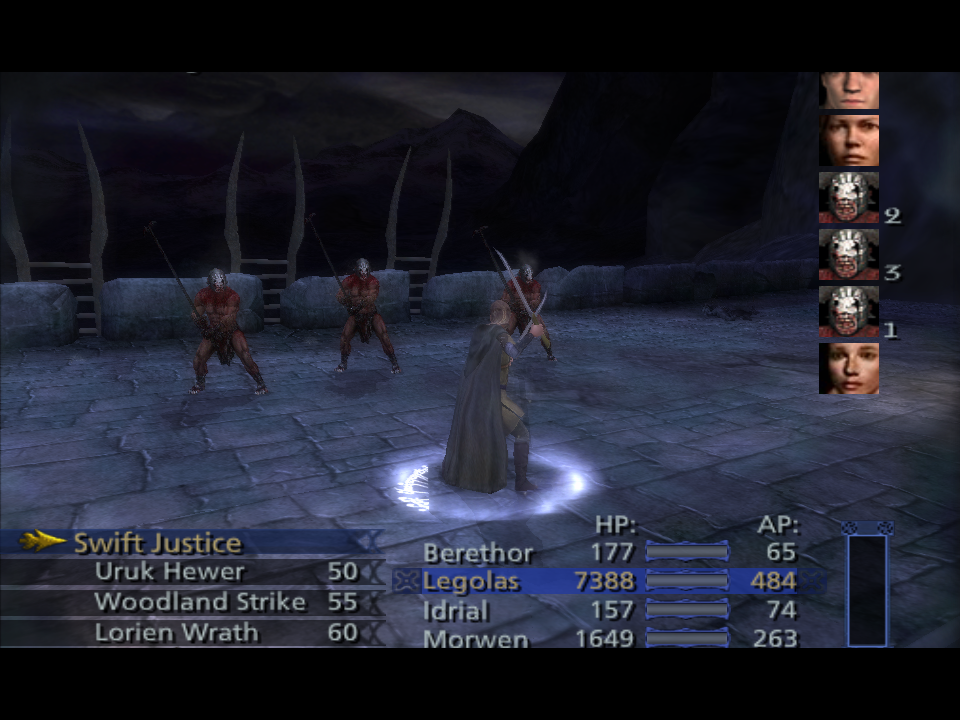
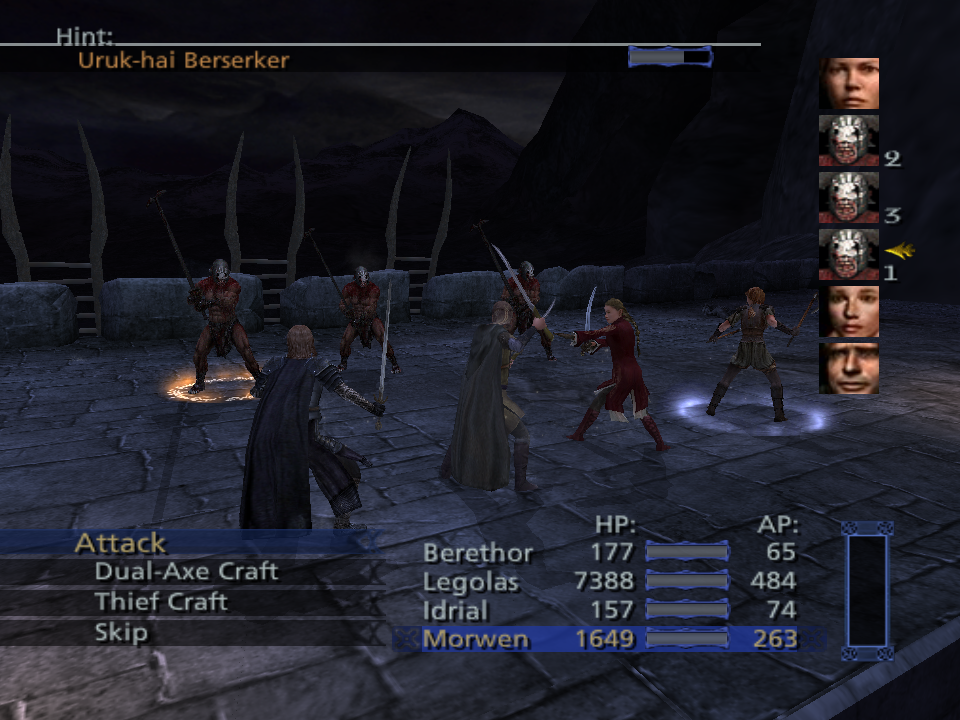
Debug battles wait for the game's films: Helm's Deep's battles on foot, with their ground
The mounted party and missing ground were the map's opening films: a battle asked for during them started inside,
keeping the film's riders and camera (half the shots at the valley) and its zones. The debug tool now holds a battle
while the game state 0x3a5294 is 5 (a film or prompt), for two minutes at most. The party move of a27132a was a
misdiagnosis and is removed. TTA_3D_DUMP_FRAME also prints the camera's place and takes %N.

diff --git a/runtime/tta_debug.cpp b/runtime/tta_debug.cpp
@@ -7,8 +7,8 @@
 // is the map's record table ("manC", count at +0xc, records of 0x20 bytes from +0x10: the id, then the name). Its
 // encounters are the records named Enc<n>[a-z]_<Name> (Enc01_Nazgul = 2109, Enc11_WargCamp01 = 2118 in Eregion);
 // the random battles' _EP (placements) and _ET (enemy groups) records alone start an empty battle (not listed).
-// A battle whose place is far from the party (Helm's Deep's, fought near x 2700) is preceded by a move of the party
-// there, so the map streams in its ground first (moveToBattle).
+// A battle asked for while the game plays one of its in-engine films (game state 0x3a5294 == 5) waits for the film to
+// end (two minutes at most): started inside Helm's Deep's opening films it kept the film's riders, cameras and zones.
 //
 // Maps. The map index (0x35bd0c, 0..13) chooses among the paths at 0x35bc88 (e98c/e98c03 ... e03c/e03c04); 0x190130(i)
 // sets it, and the chapter message 0 (category 0x7d0, handler 0x18f420: {0x7d0, 0, number, arguments}) loads the map
@@ -32,7 +32,6 @@
 #include <algorithm>
 #include <atomic>
 #include <cctype>
-#include <cmath>
 #include <cstdio>
 #include <cstdlib>
 #include <cstring>
@@ -61,7 +60,6 @@ namespace tta
         }
         void write32(uint8_t *rdram, uint32_t address, uint32_t v) { std::memcpy(rdram + (address & 0x1ffffffu), &v, 4); }
         uint32_t gameFrame(const uint8_t *rdram) { return read32(rdram, 0x3b5720); }
-
         // ---- The maps ----
 
         struct MapInfo
@@ -123,6 +121,7 @@ namespace tta
             int32_t link;     // an encounter's group, a group's placement
         };
         constexpr uint32_t kRecordTable = 0x3dff84u, kEncounterType = 0x1775u, kGroupType = 0x1770u;
+        constexpr uint32_t kGameState = 0x3a5294u, kStateFilm = 5u; // the game's state: 5 a film, 6 exploring, 3 a battle
 
         // The current map's records by id (*(0x3dff84): "manC", count at +0xc, {id, name[28]} from +0x10).
         std::vector<std::pair<int32_t, std::string>> readRecords(const uint8_t *rdram)
@@ -210,7 +209,6 @@ namespace tta
             } kind;
             int32_t value;
             uint32_t atFrame;
-            bool moved = false; // an encounter whose party was already taken to the battle's place
         };
         std::mutex g_mutex;
         std::deque<Request> g_requests;
@@ -316,9 +314,7 @@ namespace tta
             std::fflush(stdout);
         }
 
-        bool moveToBattle(uint8_t *rdram, R5900Context *ctx, Runtime *rt, int32_t id);
-
-        void startEncounter(uint8_t *rdram, R5900Context *ctx, Runtime *rt, int32_t id, bool moved = false)
+        void startEncounter(uint8_t *rdram, R5900Context *ctx, Runtime *rt, int32_t id)
         {
             // Only one of the current map's encounters: StartEncounter with an id the map does not have never comes back
             // (the game's frame stops; seen with an Eregion id right after a warp to Rohan, its list still empty).
@@ -335,98 +331,35 @@ namespace tta
                 note("no encounter " + std::to_string(id) + " on this map (" + std::to_string(count) + " listed): not started");
                 return;
             }
-            if (!moved && moveToBattle(rdram, ctx, rt, id))
-                return;
-            if (moved)
+            // Not inside one of the game's in-engine films (0x3a5294: 5 in a film, 6 exploring, 3 in battle): Helm's
+            // Deep's opening films (the ride to the gate, Theoden) run until about frame 19500 after the warp, and a
+            // battle started in them was fought with the film still in place: its five riders on their horses, its
+            // camera for half the shots, and only the zones round the film's valley, so the battle (near x 2700) had
+            // no ground. The request waits a second and asks again, for two minutes at most: state 5 is also the
+            // game's own prompts and movies (the Gullies' "Epic Scene, view it now?" and the scene it plays), where a
+            // battle starts well, and a scripted run must not wait for ever.
+            static int32_t waitingFor = 0;
+            static uint32_t waitingSince = 0;
+            const uint32_t now = gameFrame(rdram);
+            if (read32(rdram, kGameState) == kStateFilm && !(waitingFor == id && now - waitingSince >= 7200u))
             {
-                uint32_t actor = 0;
-                if (callGame(rdram, ctx, rt, func_0x15c030, {}, 0, &actor) && actor && actor < 0x2000000u)
+                if (waitingFor != id)
                 {
-                    float now[3];
-                    std::memcpy(now, rdram + actor + 0x40u, 12);
-                    char text[160];
-                    std::snprintf(text, sizeof text, "party at (%.1f, %.1f, %.1f)", now[0], now[1], now[2]);
-                    note(text);
+                    note("encounter " + std::to_string(id) + " waits for the film to end");
+                    waitingFor = id;
+                    waitingSince = now;
                 }
+                std::lock_guard lock(g_mutex);
+                g_requests.push_back({Request::kEncounter, id, now + 60u});
+                return;
             }
+            if (waitingFor == id && read32(rdram, kGameState) == kStateFilm)
+                note("encounter " + std::to_string(id) + ": still in a film or prompt after two minutes, started anyway");
+            waitingFor = 0;
             note("StartEncounter(" + std::to_string(id) + ") at game frame " + std::to_string(gameFrame(rdram)));
             if (std::getenv("TTA_DEBUG_OBJDUMP"))
                 dumpEncounterObjects(rdram, id);
             callStartEncounter(ctx, id);
-        }
-
-        // Where a battle is fought: its placement object's place (type 0x1773, the group's +0x24, where the enemies stand:
-        // Helm's Deep's Deeping Wall at (2689, 10.5, 37), the breach at (2706, 3.9, 60)), else the encounter's own
-        // (+8..+0x10; a random encounter's placement has none: the court's 1133 at (2699, 10.5, 122)). The map streams
-        // its zones in around the party (Helm's Deep has 40, zone_e02c05_zone1..40 in its .scp), so a battle started from
-        // the valley's start, 2500 units away, was fought with no ground: riders over black. When the battle's place is
-        // more than 1000 units away (the scripted battles' arena near x 2700, Helm's Deep's and Osgiliath's), the party is first taken there with the game's own teleport (0x11a880(actor, position,
-        // 1), as Lua's TeleportToPos; the party's actor from 0x15c030), and the battle started 3 seconds later, once the
-        // zones are in. The party comes as it was (mounted, from Helm's Deep's valley). Nearer battles start where the
-        // party is: Minas Tirith's court (1448, 400 units off) broke when moved (the party taken from its tier at y -198 to
-        // the encounter's y 0) and is right in place, as are Eregion's, Rohan's and Western Moria's. TTA_BATTLE_MOVE=off never moves it, =always always does.
-        bool moveToBattle(uint8_t *rdram, R5900Context *ctx, Runtime *rt, int32_t id)
-        {
-            const char *how = std::getenv("TTA_BATTLE_MOVE");
-            const std::string mode = how ? how : "";
-            if (mode == "off")
-                return false;
-            uint32_t encounter = 0;
-            int32_t placementId = 0;
-            {
-                std::lock_guard lock(g_mutex);
-                for (const Encounter &e : g_encounters)
-                    if (e.id == id)
-                    {
-                        encounter = e.address;
-                        for (const Encounter &g : g_groups)
-                            if (g.id == e.link)
-                                placementId = g.link;
-                    }
-            }
-            const auto placeAt = [&](uint32_t object, float *out)
-            {
-                if (!object)
-                    return false;
-                std::memcpy(out, rdram + ((object + 8u) & 0x1ffffffu), 12);
-                for (int k = 0; k < 3; ++k)
-                    if (!(std::fabs(out[k]) < 1e5f))
-                        return false;
-                return std::fabs(out[0]) + std::fabs(out[2]) > 1.0f;
-            };
-            // The map holds more than one object with a placement's id (some with other data).
-            uint32_t placement = 0;
-            float place[3];
-            if (placementId)
-                for (uint32_t a = 0x100000u; a + 0x30u < 0x2000000u && !placement; a += 4u)
-                    if (static_cast<int32_t>(read32(rdram, a)) == placementId && read32(rdram, a + 4u) == 0x1773u &&
-                        placeAt(a, place))
-                        placement = a;
-            if (!placement && !placeAt(encounter, place))
-                return false;
-            uint32_t actor = 0;
-            if (!callGame(rdram, ctx, rt, func_0x15c030, {}, 0, &actor) || !actor || actor >= 0x2000000u)
-                return false;
-            float was[3];
-            std::memcpy(was, rdram + actor + 0x40u, 12);
-            const float dx = place[0] - was[0], dz = place[2] - was[2];
-            if (mode != "always" && dx * dx + dz * dz < 1000.0f * 1000.0f)
-                return false;
-            const uint32_t at = (ctx->r[29].uw[0] - 0x200u) & ~0xfu;
-            std::memcpy(rdram + at, place, 12);
-            const float one = 1.0f;
-            std::memcpy(rdram + at + 12u, &one, 4);
-            if (!callGame(rdram, ctx, rt, func_0x11a880, {actor, at, 1u}, at - 0x100u))
-                return false;
-            char text[200];
-            std::snprintf(text, sizeof text, "party moved from (%.1f, %.1f, %.1f) to battle %d's %s (%.1f, %.1f, %.1f)",
-                          was[0], was[1], was[2], id, placement ? "placement" : "encounter", place[0], place[1], place[2]);
-            note(text);
-            Request r{Request::kEncounter, id, gameFrame(rdram) + 180u};
-            r.moved = true;
-            std::lock_guard lock(g_mutex);
-            g_requests.push_back(r);
-            return true;
         }
 
         void warp(uint8_t *rdram, R5900Context *ctx, Runtime *rt, int32_t index)
@@ -525,7 +458,7 @@ namespace tta
                     continue;
                 }
                 if (r.kind == Request::kEncounter)
-                    startEncounter(rdram, ctx, rt, r.value, r.moved);
+                    startEncounter(rdram, ctx, rt, r.value);
                 else if (r.kind == Request::kGroup)
                     startGroup(rdram, ctx, rt, r.value);
                 else

diff --git a/runtime/tta_3d.cpp b/runtime/tta_3d.cpp
@@ -976,8 +976,12 @@ namespace tta
                     }
                     drawNode(rdram, *m, it->second, screen);
                     count(rdram, g_drawn);
-                    // TTA_3D_DUMP_FRAME=<n>: every node drawn in frame n, with its screen bounds (GS pixels, 2048 centre).
-                    if (const char *d = env("TTA_3D_DUMP_FRAME"); d && frame(rdram) == static_cast<uint32_t>(std::atoi(d)))
+                    // TTA_3D_DUMP_FRAME=<n>: every node drawn in frame n, with its screen bounds (GS pixels, 2048 centre)
+                    // and the camera's place; =%<n> every n-th frame.
+                    const char *d = env("TTA_3D_DUMP_FRAME");
+                    const uint32_t f = frame(rdram);
+                    if (d && (d[0] == '%' ? f % static_cast<uint32_t>(std::max(1, std::atoi(d + 1))) == 0
+                                          : f == static_cast<uint32_t>(std::atoi(d))))
                     {
                         const Node &n = it->second.kind == 1 ? m->byOffset.at(m->offsetByNumber.at(it->second.master)) : it->second;
                         float mat[16];
@@ -1025,6 +1029,29 @@ namespace tta
                         std::printf("[tta:dump]   RC %x object translation %.1f %.1f %.1f, diag %.3f %.3f %.3f; RC+0x2e0 vs "
                                     "viewport x clip x object: %.3g\n",
                                     rc, obj[12], obj[13], obj[14], obj[0], obj[5], obj[10], diff);
+                        // The camera's world place: where the clip matrix's x, y and w rows are all zero.
+                        {
+                            const float *c = clipM;
+                            const double a[3][3] = {{c[0], c[4], c[8]}, {c[1], c[5], c[9]}, {c[3], c[7], c[11]}};
+                            const double b[3] = {-c[12], -c[13], -c[15]};
+                            const auto det3 = [](const double m[3][3])
+                            {
+                                return m[0][0] * (m[1][1] * m[2][2] - m[1][2] * m[2][1]) -
+                                       m[0][1] * (m[1][0] * m[2][2] - m[1][2] * m[2][0]) +
+                                       m[0][2] * (m[1][0] * m[2][1] - m[1][1] * m[2][0]);
+                            };
+                            const double det = det3(a);
+                            double p[3] = {};
+                            for (int k = 0; det != 0.0 && k < 3; ++k)
+                            {
+                                double t[3][3];
+                                for (int r = 0; r < 3; ++r)
+                                    for (int q = 0; q < 3; ++q)
+                                        t[r][q] = q == k ? b[r] : a[r][q];
+                                p[k] = det3(t) / det;
+                            }
+                            std::printf("[tta:dump]   frame %u camera at %.1f %.1f %.1f\n", frame(rdram), p[0], p[1], p[2]);
+                        }
                     }
                 }
             }

diff --git a/docs/RECOMP_NOTES.md b/docs/RECOMP_NOTES.md
@@ -488,20 +488,25 @@ the game's behaviour); its code is in the history before `8ade037`.
   loop asks the hook again when it returns): one battle a tick, the game's own flow. And an id that is not one of the
   current map's encounters is refused instead of started. Checked: Rohan encounter 1172 from forest_14900 (warp at
   15000, --encounter 1172@16200): four orcs, Rage of Saruman, the party's loss, back to the forest.
-- **Helm's Deep's debug battles had no ground** (2026-11-21). The map streams its zones in around the party
-  (Helm's Deep's .scp holds zone_e02c05_zone1 .. zone40; the code is ZoneManager2.c, 0x1d9238 .. 0x1db100, its state at
-  0x3a9c50), and a scripted battle is fought at its own place: the placement object (type 0x1773, the group's +0x24;
-  +8 .. +0x10 the place, +0x1c an angle in degrees) where it has one (Deeping Wall 1126 at (2689, 10.5, 37), the
-  breach 1129 at (2706, 3.9, 60)), else the encounter's own +8 .. +0x10 (the court's random 1133 at (2699, 10.5,
-  122)). The valley's start is at (237, 18.5, 156), 2500 units away, so started from there the battle had none of its
-  zones: riders over black. The debug tool now takes the party there first with the game's own teleport,
-  0x11a880(actor, position, 1) (what Lua's TeleportToPos calls through 0x119888; the actor from 0x15c030, its place
-  at +0x40), and starts the battle 3 seconds later. All three battles then have their ground (the wall, the breach,
-  the court). Only for places more than 1000 units away: Osgiliath's Gothmog (1269, also near x 2700) moves and is
-  right either way, while Minas Tirith's court (1448, 400 units) went black when moved (the party taken from its tier
-  at y -198 to the encounter's y 0) and is right where the party stands, as are Eregion's, Rohan's and Western
-  Moria's. The party comes as it was (mounted from Helm's Deep's valley, where the story has it on foot).
-  TTA_BATTLE_MOVE=off / always; TTA_DEBUG_OBJDUMP=1 prints the encounter's, group's and placement's words.
+- **Helm's Deep's debug battles: no ground, mounted party** (2026-11-21). Not a rendering fault: the battles were
+  started inside the map's opening films. After the warp (forest_14900, warp at 15000, the START / CROSS script of the
+  earlier audit) Helm's Deep plays in-engine films (the ride to the gate, Theoden) until about game frame 19140, and a
+  battle asked for at 16200 began inside them. The battle itself was right (fought at its placement near x 2700:
+  the placement object, type 0x1773, the group's +0x24, +8 .. +0x10 the place, +0x1c an angle; Deeping Wall 1126 at
+  (2689, 10.5, 37), the breach 1129 at (2706, 3.9, 60)), but the film's five riders (Berethor, Idrial, Morwen, Elegost,
+  Hadhod on the map's Horse_SG02_01..05, parked at (230, 18.7, 155)) and its camera stayed: about half the shots
+  (TTA_3D_DUMP_FRAME=%20 now prints the camera's world place, solved from the clip matrix) were taken at (184, 21,
+  134), the valley, where during the battle only four terrain pieces were drawn: mounted riders over black. Only the
+  zones round the film's valley were in, so the battle had no ground either. The game's state word 0x3a5294 is 5 in
+  a film (both films), 6 exploring (the forest, the Hornburg) and 3 in battle; the debug tool now holds a battle
+  while it is 5, asking again every second, for two minutes at most (state 5 is also the game's prompts and the
+  movies they play: the Gullies' "Epic Scene, view it now?", where a battle started well before). Started at 19140,
+  1126, 1129 and 1133 are on foot on the wall, the breach and the court, with every shot at the battle. A first try
+  (moving the party with the game's teleport 0x11a880(actor, position, 1), as Lua's TeleportToPos does through
+  0x119888) brought the ground but not the film's shots, and Helm's Deep's 0x15c030 actor is the film's Berethor,
+  not the explorer; it was taken out. The party list is 0x3a6e50 (0x3a5bd0 + 0x1280, as GetPartyMemberByName's
+  0x1941f8): count at +8, member k's actor at +0xba4 + k * 0x20 (gonj, fewj, rofk, duwj, mdwj, eadj).
+  TTA_DEBUG_OBJDUMP=1 prints the encounter's, group's and placement's words.
 - **Scene drawing overhead** (2026-11-20). TTA_HOST_PROFILE on the first battle (battle1_5800 to 7500, the window
   build on the game's clock): the main thread spent ~20% in drawFor / drawNode (a copy of every batch's vertices into a
   new vector each frame, a texture lookup by id then by file name through two string maps per batch, the mesh lookup by
@@ -634,7 +639,8 @@ the game's behaviour); its code is in the history before `8ade037`.
   debug start: the game itself draws only four type-0 nodes there (ter 104 pieces, its chain shows no terrain render),
   placed by RC+0x2e0 = viewport x RC+0x260 x the identity object matrix (TTA_3D_DUMP_FRAME now prints that check),
   mostly off-screen: the battle's ground is not among the nodes the game renders, as if the area the encounter places
-  the battle in were not streamed in. It was not (below, "Helm's Deep's debug battles had no ground").
+  the battle in were not streamed in. The battle was started inside the map's opening films (below, "Helm's Deep's
+  debug battles: no ground, mounted party").
 - **Test runs show nothing** (2026-11-18): a scripted window run (--pad-script) now opens no window: BozoEngine's
   WindowOptions::hidden / captureScene present into an offscreen picture and capture from it (a covered or hidden
   window's back buffer read back black: captures depended on what was on top of the desktop). Same pixels as a

diff --git a/README.md b/README.md
@@ -56,12 +56,13 @@ what remains open.
 
 ## Screenshots
 
-**2026-11-21.** Helm's Deep's Deeping Wall battle, started from the debug tool: the wall's stakes and stones under the
-night sky. A battle fought far from the party (Helm's Deep's scripted battles, near x 2700) used to have no ground,
-because the map streams in its zones around the party; the debug tool now takes the party there first.
+**2026-11-21.** Helm's Deep's Deeping Wall battle, started from the debug tool: Berethor, Legolas, Idrial and Morwen
+on foot on the wall's walkway, among the stakes. Asked for during the map's opening films, these battles used to start
+inside them: the film's riders on their horses, its camera and its valley in half the shots, no ground under the
+rest. The debug tool now waits for the films to end.
 
 <p align="center">
-  <img src="docs/screenshots/2026-11-21-bozo-deeping-wall.png" width="400" alt="A battle on the Deeping Wall at night on BozoEngine, Uruk-hai facing the party on the stone walkway">
+  <img src="docs/screenshots/2026-11-21-bozo-deeping-wall.png" width="400" alt="A battle on the Deeping Wall at night on BozoEngine, the party facing Uruk-hai berserkers on the stone walkway">
 </p>
 
 **2026-11-20.** The first battle's Nazgul Scream with its lens flare: the discs strung from the light on the
